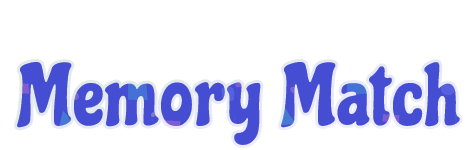
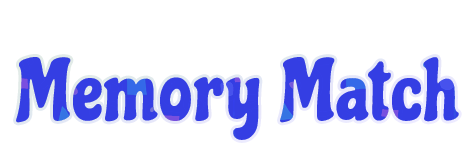
image update

Changed region(s): [[0.0295, 0.3467, 0.56, 0.88], [0.5895, 0.3467, 0.9726, 0.8533], [0.4716, 0.72, 0.56, 0.9867]]

diff --git a/README.md b/README.md
@@ -1,1 +1,4 @@
 # memory-game
+![game title](https://raw.githubusercontent.com/madasun/memory-game/main/src/images/game-title.png)
+
+
